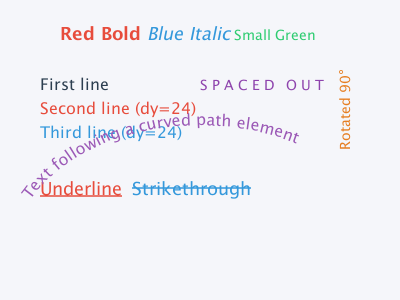
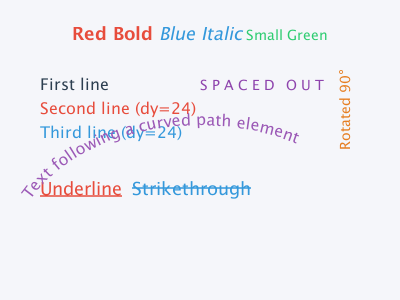
Fix text-anchor for nested sized tspans and font-family fallback
- Measure each descendant at its own font-size when computing text-anchor
  width, so zero-size <text> wrappers (Verovio pattern) anchor correctly.
- Apply text-anchor only where a text chunk starts (text or absolute x),
  so the inherited value on wrapper tspans doesn't shift the cursor twice.
- Resolve font-family lists to the first SVG, generic, or installed family
  instead of always using the first entry.
- Regenerate affected JairoSVG comparison PNGs and Size rows.

Changed region(s): [[0.15, 0.09, 0.81, 0.15]]

diff --git a/src/main/java/io/brunoborges/jairosvg/draw/TextDrawer.java b/src/main/java/io/brunoborges/jairosvg/draw/TextDrawer.java
@@ -1,6 +1,7 @@
 package io.brunoborges.jairosvg.draw;
 
 import java.awt.Font;
+import java.awt.GraphicsEnvironment;
 import java.awt.Shape;
 import java.awt.font.FontRenderContext;
 import java.awt.font.GlyphVector;
@@ -11,9 +12,12 @@ import java.awt.geom.PathIterator;
 import java.awt.geom.Point2D;
 import java.awt.geom.Rectangle2D;
 import java.util.ArrayList;
+import java.util.HashSet;
 import java.util.LinkedHashMap;
 import java.util.List;
+import java.util.Locale;
 import java.util.Map;
+import java.util.Set;
 import java.util.regex.Pattern;
 
 import io.brunoborges.jairosvg.dom.Node;
@@ -41,14 +45,51 @@ public final class TextDrawer {
     private TextDrawer() {
     }
 
-    /** Extract the primary font family name from a font-family attribute value. */
-    private static String parseFontFamily(Node node) {
-        return node.get("font-family", "SansSerif").split(",")[0].strip().replace("'", "").replace("\"", "");
+    private static final Set<String> GENERIC_FAMILIES = Set.of("serif", "sans-serif", "monospace", "sansserif",
+            "monospaced", "dialog", "dialoginput");
+
+    private static final class InstalledFonts {
+        static final Set<String> FAMILIES = load();
+
+        private static Set<String> load() {
+            try {
+                var families = new HashSet<String>();
+                for (String family : GraphicsEnvironment.getLocalGraphicsEnvironment().getAvailableFontFamilyNames()) {
+                    families.add(family.toLowerCase(Locale.ROOT));
+                }
+                return families;
+            } catch (RuntimeException | Error e) {
+                return Set.of();
+            }
+        }
+    }
+
+    /**
+     * Resolve the first usable family from a font-family list: an SVG font, a
+     * generic family, or an installed font. Falls back to the first entry.
+     */
+    private static String parseFontFamily(Surface surface, Node node) {
+        String first = null;
+        for (String entry : node.get("font-family", "SansSerif").split(",")) {
+            String family = entry.strip().replace("'", "").replace("\"", "");
+            if (family.isEmpty()) {
+                continue;
+            }
+            if (first == null) {
+                first = family;
+            }
+            String key = family.toLowerCase(Locale.ROOT);
+            if (surface.fonts.containsKey(family) || GENERIC_FAMILIES.contains(key)
+                    || InstalledFonts.FAMILIES.contains(key)) {
+                return family;
+            }
+        }
+        return first != null ? first : "SansSerif";
     }
 
     /** Draw a text node. */
     public static void text(Surface surface, Node node) {
-        String fontFamily = parseFontFamily(node);
+        String fontFamily = parseFontFamily(surface, node);
 
         // Check for SVG font match before mapping to AWT fonts
         SvgFont svgFont = surface.fonts.get(fontFamily);
@@ -116,9 +157,12 @@ public final class TextDrawer {
                 surface.cursorPosition[1] += size(surface, node.cachedDyCoords[0], "y");
             }
 
-            // Adjust cursor for text-anchor using total width of all children
+            // Adjust cursor for text-anchor using total width of all children. Only an
+            // element starting a text chunk (text, or an absolute x) anchors; the
+            // inherited value on nested tspans must not shift the cursor again.
             String textAnchor = node.get("text-anchor");
-            if (textAnchor != null && ("middle".equals(textAnchor) || "end".equals(textAnchor))) {
+            boolean startsChunk = "text".equals(node.tag) || parentX != null;
+            if (startsChunk && textAnchor != null && ("middle".equals(textAnchor) || "end".equals(textAnchor))) {
                 double totalWidth = measureChildrenWidth(surface, node, frc);
                 if ("middle".equals(textAnchor)) {
                     surface.cursorPosition[0] -= totalWidth / 2;
@@ -416,20 +460,30 @@ public final class TextDrawer {
     /** Measure total text width of all children for text-anchor calculation. */
     private static double measureChildrenWidth(Surface surface, Node parent, FontRenderContext frc) {
         double totalWidth = 0;
-        for (Node child : parent.children) {
-            if (child.text != null && !child.text.isEmpty()) {
-                String family = parseFontFamily(child);
-                SvgFont svgF = surface.fonts.get(family);
-                if (svgF != null) {
-                    totalWidth += measureSvgFontWidth(svgF, child.text, surface.fontSize, resolveFont(surface, child),
-                            frc);
-                } else {
-                    totalWidth += resolveFont(surface, child).getStringBounds(child.text, frc).getWidth();
+        double parentFontSize = surface.fontSize;
+        try {
+            for (Node child : parent.children) {
+                // Each descendant is drawn at its own font-size (em units resolve against the
+                // parent's)
+                surface.fontSize = parentFontSize;
+                surface.fontSize = size(surface, child.get("font-size", "12pt"));
+                boolean hasChildren = child.children != null && !child.children.isEmpty();
+                if (child.text != null && !child.text.isEmpty() && !(hasChildren && child.text.isBlank())) {
+                    String family = parseFontFamily(surface, child);
+                    SvgFont svgF = surface.fonts.get(family);
+                    if (svgF != null) {
+                        totalWidth += measureSvgFontWidth(svgF, child.text, surface.fontSize,
+                                resolveFont(surface, child), frc);
+                    } else {
+                        totalWidth += resolveFont(surface, child).getStringBounds(child.text, frc).getWidth();
+                    }
+                }
+                if (hasChildren) {
+                    totalWidth += measureChildrenWidth(surface, child, frc);
                 }
             }
-            if (child.children != null && !child.children.isEmpty()) {
-                totalWidth += measureChildrenWidth(surface, child, frc);
-            }
+        } finally {
+            surface.fontSize = parentFontSize;
         }
         return totalWidth;
     }
@@ -457,7 +511,7 @@ public final class TextDrawer {
 
     /** Resolve the Font for a given node based on its font attributes. */
     private static Font resolveFont(Surface surface, Node node) {
-        String fontFamily = parseFontFamily(node);
+        String fontFamily = parseFontFamily(surface, node);
         fontFamily = switch (fontFamily.toLowerCase()) {
             case "sans-serif" -> "SansSerif";
             case "serif" -> "Serif";

diff --git a/src/test/java/io/brunoborges/jairosvg/TextDrawerTest.java b/src/test/java/io/brunoborges/jairosvg/TextDrawerTest.java
@@ -1321,4 +1321,58 @@ class TextDrawerTest {
         BufferedImage img = render(svg);
         assertNotNull(img);
     }
+
+    @Test
+    void testTextAnchorMiddleWithZeroSizeTextAndSizedTspan() throws Exception {
+        String svg = """
+                <svg xmlns="http://www.w3.org/2000/svg" width="200" height="60">
+                  <rect width="200" height="60" fill="white"/>
+                  <text x="100" y="40" text-anchor="middle" font-size="0px" fill="black">
+                    <tspan class="text"><tspan font-size="24px">MMMM</tspan></tspan>
+                  </text>
+                </svg>
+                """;
+        BufferedImage img = render(svg);
+
+        int leftCount = countDarkPixels(img, 0, 0, 99, 59, 128);
+        int rightCount = countDarkPixels(img, 101, 0, 199, 59, 128);
+        assertTrue(leftCount > 0, "Should have dark pixels left of center");
+        assertTrue(rightCount > 0, "Should have dark pixels right of center");
+        double ratio = (double) Math.max(leftCount, rightCount) / Math.max(1, Math.min(leftCount, rightCount));
+        assertTrue(ratio < 1.5, "Nested tspan text should be centered, ratio=" + ratio);
+    }
+
+    @Test
+    void testTextAnchorEndWithZeroSizeTextAndSizedTspan() throws Exception {
+        String svg = """
+                <svg xmlns="http://www.w3.org/2000/svg" width="200" height="60">
+                  <rect width="200" height="60" fill="white"/>
+                  <text x="150" y="40" text-anchor="end" font-size="0px" fill="black">
+                    <tspan font-size="24px">MMM</tspan>
+                  </text>
+                </svg>
+                """;
+        BufferedImage img = render(svg);
+
+        assertTrue(countDarkPixels(img, 0, 0, 150, 59, 128) > 0, "Text should end at x=150");
+        assertEquals(0, countDarkPixels(img, 153, 0, 199, 59, 128), "No text should extend past x=150");
+    }
+
+    @Test
+    void testFontFamilyFallsBackToNextListedFamily() throws Exception {
+        String template = """
+                <svg xmlns="http://www.w3.org/2000/svg" width="200" height="60">
+                  <rect width="200" height="60" fill="white"/>
+                  <text x="10" y="40" font-size="24" font-family="%s" fill="black">Wiggle</text>
+                </svg>
+                """;
+        BufferedImage fallback = render(template.formatted("NoSuchFontJairo, monospace"));
+        BufferedImage direct = render(template.formatted("monospace"));
+
+        for (int y = 0; y < 60; y++) {
+            for (int x = 0; x < 200; x++) {
+                assertEquals(direct.getRGB(x, y), fallback.getRGB(x, y), "Pixel mismatch at " + x + "," + y);
+            }
+        }
+    }
 }

diff --git a/comparison/COMPARISON.md b/comparison/COMPARISON.md
@@ -191,7 +191,7 @@ Multi-span text (tspan), text-decoration, textPath on curves, and rotated text.
 | Input SVG | JairoSVG | EchoSVG | CairoSVG | JSVG |
 | :-------: | :------: | :-----: | :------: | :--: |
 | ![SVG](svg/19_text_advanced.svg) | ![JairoSVG](visual/png/jairosvg/19_text_advanced.png) | ![EchoSVG](visual/png/echosvg/19_text_advanced.png) | ![CairoSVG](visual/png/cairosvg/19_text_advanced.png) | ![JSVG](visual/png/jsvg/19_text_advanced.png) |
-| **Size** | 18,801 bytes ✅ | 26,256 bytes | 23,861 bytes | 19,756 bytes |
+| **Size** | 18,821 bytes ✅ | 26,256 bytes | 23,861 bytes | 19,756 bytes |
 | **Time** | 4.7007 ms | 24.9951 ms | 8.4329 ms | **4.5512 ms** ✅ |
 
 ### 20_fe_blend_modes
@@ -261,7 +261,7 @@ Reusable `<symbol>` elements instantiated with `<use>` at different sizes and po
 | Input SVG | JairoSVG | EchoSVG | CairoSVG | JSVG |
 | :-------: | :------: | :-----: | :------: | :--: |
 | ![SVG](svg/26_symbol_use.svg) | ![JairoSVG](visual/png/jairosvg/26_symbol_use.png) | ![EchoSVG](visual/png/echosvg/26_symbol_use.png) | ![CairoSVG](visual/png/cairosvg/26_symbol_use.png) | ![JSVG](visual/png/jsvg/26_symbol_use.png) |
-| **Size** | 15,665 bytes ✅ | 24,513 bytes | 21,624 bytes | 18,260 bytes |
+| **Size** | 16,559 bytes ✅ | 24,513 bytes | 21,624 bytes | 18,260 bytes |
 | **Time** | 4.0890 ms | 24.2356 ms | 8.6016 ms | **4.0400 ms** ✅ |
 
 ### 27_switch_features
@@ -441,7 +441,7 @@ Verovio-style engraved score: scoped descendant CSS (`#score path`) strokes staf
 | Input SVG | JairoSVG | EchoSVG | CairoSVG | JSVG |
 | :-------: | :------: | :-----: | :------: | :--: |
 | ![SVG](svg/44_music_notation.svg) | ![JairoSVG](visual/png/jairosvg/44_music_notation.png) | ![EchoSVG](visual/png/echosvg/44_music_notation.png) | — | ![JSVG](visual/png/jsvg/44_music_notation.png) |
-| **Size** | 13,321 bytes | 16,788 bytes | — | 11,254 bytes ✅ |
+| **Size** | 13,880 bytes | 16,788 bytes | — | 11,254 bytes ✅ |
 | **Time** | 4.4743 ms | 25.1169 ms | — | **4.0830 ms** ✅ |
 
 ---
